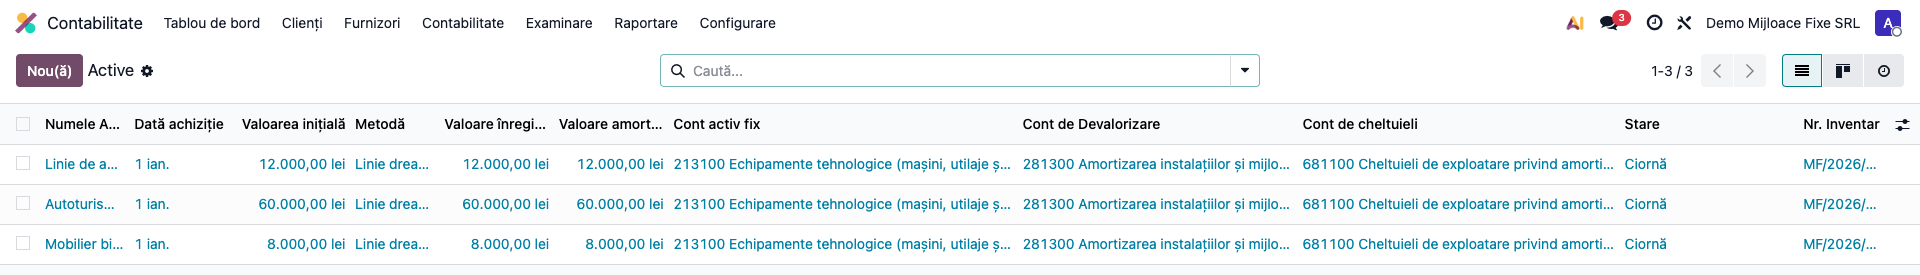
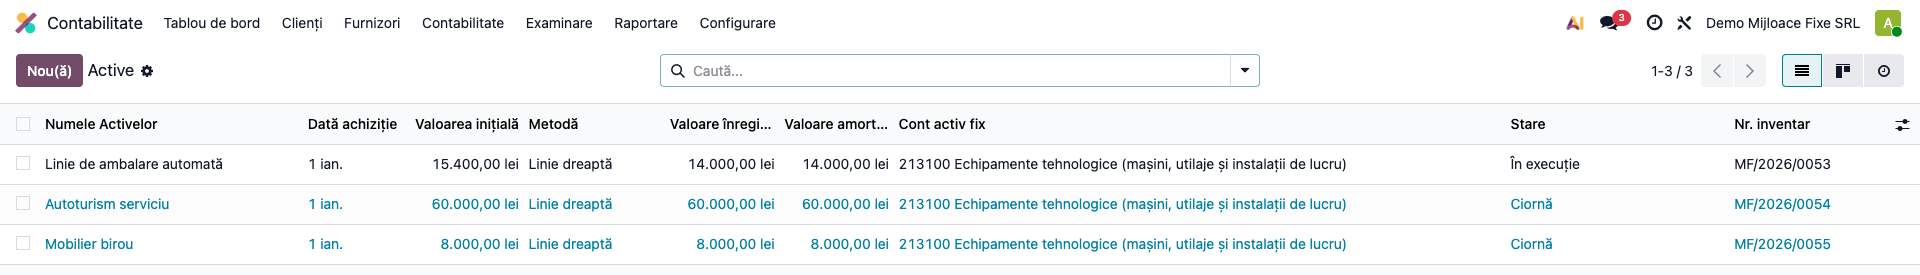
Re-ingestie l10n_ro_fixed_assets: fix bază amortizare fiscală (19.0.1.2.2)
Modulul a primit un fix suplimentar după rezolvarea tichetului 9452:
_compute_l10n_ro_fiscal_depreciation folosea original_value ca bază, contaminată
de surplusul (nedeductibil fiscal) al unei reevaluări. Corectat prin câmpul nou
l10n_ro_fiscal_original_value, înghețat la creare.

- index.md actualizat la 19.0.1.2.2
- FISA_CONSULTANT.md resincronizată (inclusiv corecție de etichetă de versiune
  în secțiunea 12)
- Capturi resincronizate
- Index de căutare reconstruit (488 module)

diff --git a/l10n_ro_fixed_assets/FISA_CONSULTANT.md b/l10n_ro_fixed_assets/FISA_CONSULTANT.md
@@ -17,7 +17,8 @@ pentru pregătirea capitolului Cap 7.1 din manualul utilizator.
 
 ## 2. Bază legală și context
 
-OMFP 1802/2014; HG 2139/2004 (Nomenclatorul MF); Codul Fiscal (amortizare fiscală)
+OMFP 1802/2014; HG 2139/2004 (Catalogul privind clasificarea și duratele normale de funcționare a
+mijloacelor fixe); Codul Fiscal art. 28 (amortizare fiscală)
 
 ## 3. Utilizatori și roluri
 
@@ -30,7 +31,11 @@ Roluri recomandate pentru testare:
 
 ## 4. Conturi și date implicate
 
-21x (active), 281x/282x (amortizare), 6811 (cheltuieli amortizare), 6583 (casare)
+21x (active), 281x (amortizare cumulată), 6811 (cheltuieli amortizare), 105 (rezerve din
+reevaluare), 1175 (rezultat reportat — transfer rezervă la casare), 6813 (depreciere ce depășește
+soldul 105), 6583 (valoarea neamortizată la casare / „Cont Pierderi"), 7583 (venit din vânzarea
+activelor / „Cont Venituri"), 4111/461 (creanța clientului la vânzare, după contul configurat pe
+partener), 4427 (TVA colectată la vânzare)
 
 Date minime pentru demo:
 - companie românească cu localizarea contabilă instalată
@@ -40,19 +45,30 @@ Date minime pentru demo:
 
 ## 5. Configurare inițială
 
-1. Instalați modulul `l10n_ro_fixed_assets` pe baza demo.
-2. Verificați dependențele cerute de manifest și meniurile nou apărute.
-3. Configurați conturile, jurnalele, produsele, partenerii sau parametrii specifici fluxului.
-4. Pregătiți un set minim de documente postate pentru perioada de test.
-5. Verificați că utilizatorul de test are grupurile de acces necesare.
+1. Instalați modulul `l10n_ro_fixed_assets` (necesită `account_asset`, `l10n_ro_saft`, `l10n_ro`).
+2. Verificați jurnalul de tip **Active fixe** și conturile 21x/281x/6811/105/6813/1175/6583 pe planul
+   de conturi RO.
+3. **Setări → Contabilitate**, secțiunea Active: setați **6583** pe **„Cont Pierderi"**
+   (`loss_account_id`) și **7583** pe **„Cont Venituri"** (`gain_account_id`) — fără ele, motorul
+   nu are unde posta rezultatul net la casare/vânzare.
+4. **Setări → Contabilitate**: activați **„Contabilitate Storno"** (`account_storno`) — fără el,
+   nota de vânzare a unui mijloc fix produce un rulaj în oglindă (debit) pe contul de venit (7583),
+   deformând cifra de afaceri din operațiuni de capital.
+5. Verificați secvența **„Număr Inventar Mijloc Fix RO"** (`l10n_ro.asset_inventory_number`, format
+   `MF/AAAA/NNNN`).
+6. Pe activele de test, setați **Metodă = Linie dreaptă** și **Perioadă = 1 lună** — fix-ul „amortizare
+   din luna următoare PIF" (secțiunea 12) se aplică doar când perioada este lunară.
+7. Completați pe fiecare activ de test câmpurile **Nr. Inventar** și **Data PIF** (obligatorii pentru
+   SAF-T D406).
 
 ## 6. Flux de utilizare
 
 ### Pasul 1 — Lista mijloacelor fixe
 
-Accesați **Contabilitate → Active → Active**. Lista afișează mijloacele fixe cu coloanele RO:
-valoare inițială, metodă, conturile (213 activ / 281 amortizare / 681 cheltuială), starea și
-**numărul de inventar** (`MF/AAAA/NNNN`).
+Accesați **Contabilitate → Active și pasive → Active**. Lista afișează mijloacele fixe cu coloanele RO:
+valoare inițială, metodă, contul de activ (213), starea și **numărul de inventar** (`MF/AAAA/NNNN`).
+Conturile de amortizare (281) și cheltuială (681) sunt disponibile ca **coloane opționale**
+(selectorul din dreapta antetului listei).
 
 ![Lista mijloacelor fixe cu coloanele RO (nr. inventar, conturi, stare)](screenshots/01_lista_active.png)
 
@@ -68,21 +84,37 @@ activul și generează planul de amortizare.
 ### Pasul 3 — Datele specifice RO (tab „Informații RO")
 
 Tab-ul **„Informații RO"** grupează câmpurile cerute de localizare: **Data PIF** (punere în
-funcțiune), **Locație**, **DNU** (durata normală din Catalogul HG 2139/2004), **Responsabil
-custodie**, metoda de **amortizare fiscală** (Cod Fiscal art. 28), plus secțiunile **Casare** și
-**Reevaluări** (rezerva contului 105).
+funcțiune), **DNU** (durata normală din Catalogul HG 2139/2004), **Cod de clasificare**,
+**Responsabil custodie**, **Locație**, metoda de **amortizare fiscală** (Cod Fiscal art. 28) și
+lista **Reevaluări** (cu rezerva contului 105 vizibilă și în smart button-ul din antet). Secțiunea
+**Casare** rămâne goală până la cedarea efectivă a activului — câmpurile ei devin vizibile abia în
+starea „Cedat".
 
 ![Tab „Informații RO" — identificare/localizare, amortizare fiscală, casare, reevaluări](screenshots/03_informatii_ro.png)
 
 ### Note de monografie și raportare
 
 - **Amortizare lunară:** `Dr 6811 (cheltuieli amortizare) = Cr 281x (amortizare cumulată)`.
-- **Reevaluare (creștere):** `Dr 21x (activ) = Cr 105 (rezerve din reevaluare)`; la casare/cedare,
-  rezerva 105 se transferă la rezultatul reportat.
-- **Casare:** scoaterea din evidență `Dr 281x (amortizare) + Dr 658x/471 (val. neamortizată) = Cr 21x (activ)`,
-  cu **Decizie de casare** (raport PDF).
+- **Reevaluare (creștere):** `Dr 21x (activ) = Cr 105 (rezerve din reevaluare)`.
+- **Depreciere peste soldul 105:** `Dr 6813 (cheltuieli deprecieri) = Cr 21x (activ)`, pentru partea
+  care depășește rezerva disponibilă din 105.
+- **Casare (fără vânzare — activ complet sau parțial amortizat, fără încasare):** scoaterea din
+  evidență `Dr 281x (amortizare cumulată) + Dr 6583 (valoare neamortizată) = Cr 21x (activ, valoare
+  brută)`, cu **Decizie de casare** (raport PDF) ca document justificativ. Aici toată valoarea
+  neamortizată ajunge direct în 6583 (`loss_account_id`).
+- **Vânzare mijloc fix:** factura de vânzare generează separat `Dr 461/4111 (creanța clientului,
+  după contul configurat pe partener) = Cr 7583 (venit din vânzare active) + Cr 4427 (TVA
+  colectată)`. Nota de cedare a activului reia linia de venit din factură și adaugă `Dr 281x
+  (amortizare cumulată) = Cr 21x (activ, valoare brută)`; **diferența** dintre valoarea neamortizată
+  și prețul de vânzare (câștig sau pierdere) se închide în contul configurat pe companie — **7583**
+  („Cont Venituri", `gain_account_id`) dacă vânzarea aduce câștig, **6583** („Cont Pierderi",
+  `loss_account_id`) dacă aduce pierdere. Fără **Contabilitate Storno** activată, această notă
+  produce un rulaj suplimentar (debit) pe 7583, pe lângă cel din factură.
+- **La casare/cedare, dacă activul are rezervă de reevaluare (105) nesoldată:** transfer automat
+  `Dr 105 (rezerve din reevaluare) = Cr 1175 (rezultat reportat)` (OMFP 1802/2014 pct. 103).
 - **Amortizare fiscală vs. contabilă** (Cod Fiscal art. 28): se urmărește separat de cea contabilă,
-  pentru calculul impozitului pe profit.
+  pentru calculul impozitului pe profit. Baza de calcul este **valoarea fiscală de intrare**, nu
+  valoarea reevaluată — un surplus din reevaluare nu se amortizează fiscal.
 
 ## 7. Legături cu alte module / declarații
 
@@ -109,10 +141,11 @@ Ce rămâne manual: validarea numărului de inventar, codului nomenclator și DN
 
 | Mesaj / simptom | Cauză probabilă | Remediere |
 |-----------------|-----------------|-----------|
-| Meniul nu este vizibil | Utilizatorul nu are grupurile necesare | Verificați drepturile de acces și reîncărcați aplicațiile |
-| Nu se generează linii | Lipsesc documente postate în perioada aleasă | Creați și postați datele de test necesare |
-| Cont lipsă sau jurnal lipsă | Configurarea contabilă este incompletă | Completați conturile și jurnalele în setările modulului |
-| Perioada este blocată | Data documentului este într-o perioadă închisă | Folosiți o perioadă deschisă sau ajustați lock date-ul în demo |
+| „Commissioning date (PIF) cannot be before the acquisition date." | Data PIF a fost setată înaintea datei de achiziție a activului. | Corectați data PIF — trebuie să fie egală sau ulterioară achiziției. |
+| „The journal entry … is linked to asset … but has no depreciation beginning date. The 'Asset' field is reserved for entries generated automatically…" *(mesaj momentan netradus în ro.po)* | O notă contabilă (ex. de reevaluare) a fost legată manual la câmpul tehnic „Asset", fără ca acesta să provină din motorul de amortizare. | Nu legați manual câmpul „Asset" pe notele contabile — el este completat automat de planul de amortizare/reevaluare. |
+| „Account 6813 not found. Please fill in the 'Account 6813' field on the revaluation." | Deprecierea depășește soldul disponibil în 105, iar contul 6813 nu e configurat pe planul de conturi sau pe reevaluare. | Completați câmpul „Cont 6813" pe reevaluare sau adăugați contul 6813 pe planul de conturi RO. |
+| „The revaluation has already been confirmed." / „…has a posted accounting entry. Please reset the journal entry first." | Se încearcă re-confirmarea unei reevaluări deja postate. | Resetați mai întâi nota contabilă asociată (draft), apoi reluați reevaluarea. |
+| „Missing inventory number on fixed assets" / „Missing commissioning date on fixed assets" (avertisment SAF-T) | Activul nu are completat Nr. Inventar sau Data PIF, câmpuri obligatorii pentru declarația SAF-T D406. | Completați câmpurile lipsă direct din acțiunea „Fill in…" oferită de avertisment. |
 
 ## 10. Capturi de ecran
 
@@ -135,3 +168,29 @@ Regenerare:
 
 În manualul final, păstrați explicația orientată pe activitatea utilizatorului:
 ce problemă rezolvă modulul, când se rulează, ce date trebuie pregătite și cum se verifică rezultatul.
+
+> **Notă terminologică (nu ține de acest modul):** traducerea RO livrată de Odoo Enterprise pentru
+> `account_asset` folosește „Devalorizare" în loc de „Amortizare" (ex. tabul „Panou Devalorizare",
+> grupul „Metoda de Devalorizare"). Este o traducere din pachetul Enterprise, nu din
+> `l10n_ro_fixed_assets` — în manual, înlocuiți mental „devalorizare" cu „amortizare" la explicarea
+> capturilor.
+
+## 12. Corecții relevante pentru consultant
+
+Fixuri livrate pe acest modul, relevante pentru discuția cu clientul (ce s-a schimbat, de ce, de la ce versiune):
+
+| Versiune | Ce era greșit (simptom pentru client) | Ce s-a corectat |
+|---|---|---|
+| **19.0.1.1.0** (versiune inițială) | Pe planul de conturi RO, contul de amortizare cumulată 281x este clasificat drept cont de cheltuială — fără o corecție explicită, planul de amortizare nu se genera deloc (linia Dr 6811 și cea Cr 281x se anulau reciproc). | Latura de amortizare cumulată este exclusă corect din calculul liniei de cheltuială, astfel încât planul de amortizare se generează cu valorile corecte (`Dr 6811 = Cr 281x`). |
+| **19.0.1.2.0** (2026-09-14) | Amortizarea contabilă/fiscală începea chiar din luna punerii în funcțiune (PIF), proporțional cu zilele rămase din acea lună — nu din luna următoare, cum cere legea. | `prorata_date` pornește acum din prima zi a lunii **următoare** PIF (art. 28 alin. (12) lit. a) Legea 227/2015; OMFP 1802/2014 pct. 238). Se aplică companiilor RO cu amortizare lunară. |
+| **19.0.1.2.0** (2026-09-14) | La vânzarea/casarea unui mijloc fix parțial amortizat în cursul lunii, programul amortiza proporțional cu zilele scurse până la data vânzării — deși amortizarea e strict lunară, iar luna vânzării nu ar trebui amortizată deloc. | Ultima lună amortizată la casare este acum luna anterioară vânzării, indiferent de ziua exactă din lună. Monografia de casare/vânzare (secțiunea 6) era deja corectă structural — discrepanța era doar efectul sumei greșite de amortizare. |
+| **19.0.1.2.1** (2026-09-14) | Amortizarea fiscală afișată pe activ (câmpurile „Amortizare fiscală cumulată" / „an curent") putea arăta cumulatul **mai mic** decât amortizarea anului curent pentru un activ pus în funcțiune în anul curent — incoerență imposibilă contabil, cauzată de o formulă care numără luna PIF diferit în cele două cifre. | Ambele cifre folosesc acum aceeași convenție „luna următoare PIF", simetric cu fix-ul din 19.0.1.2.0; pentru primul an de amortizare, cumulatul și amortizarea anului curent coincid. |
+| **19.0.1.2.2** (2026-09-14) | Amortizarea fiscală se calcula pe **valoarea curentă** a activului (`original_value`), care crește la o reevaluare — un surplus din reevaluare (nedeductibil fiscal, Cod Fiscal art. 28) ajungea astfel inclus greșit în baza de amortizare fiscală, umflând cifra afișată. | Baza de calcul este acum câmpul nou **„Fiscal Original Value"**, înghețat la valoarea de intrare din momentul creării activului — neafectat de reevaluări ulterioare. |
+| **19.0.1.2.0** (2026-09-14) | Legarea manuală a unei note contabile (ex. o notă de reevaluare) la câmpul tehnic „Asset" al unei note contabile, fără completarea datei de început a amortizării, bloca ulterior orice calcul de valoare reziduală a activului, inclusiv din wizard-ul „Modifică". Incident reprodus pe o instanță client. | Legarea manuală incompletă este acum respinsă explicit la salvare, cu un mesaj clar (deocamdată doar în engleză) — câmpul „Asset" rămâne rezervat notelor generate automat de motorul de amortizare. |
+| **19.0.1.1.1** (2026-07-17) | Butonul/acțiunea „Reevaluează Mijlocul Fix" din lista de active (meniu contextual) arunca o eroare la orice utilizare, blocând reevaluarea din acel punct de intrare. | Acțiunea apelează corect wizard-ul de reevaluare; funcționează identic cu butonul „Reevaluare" din formularul activului. |
+
+> Notă: fix-urile de amortizare (din luna următoare PIF, fără prorata la vânzare) și blocarea legării
+> manuale sunt acoperite direct de teste automate (`tests/test_fixed_assets_ro.py`), reproduse cu date
+> fictive RO. Fix-ul acțiunii „Reevaluează" este verificat doar indirect (testul acoperă metoda
+> apelată, nu punctul exact de eroare din acțiunea de server). Istoricul complet, în engleză și cu
+> detalii tehnice, e în `readme/HISTORY.md`.

diff --git a/l10n_ro_fixed_assets/index.md b/l10n_ro_fixed_assets/index.md
@@ -1,10 +1,10 @@
 # Romania - Mijloace fixe complete (FR-19) (localizat la `l10n_ro_fixed_assets/index.md`)
 
 - **Nume Tehnic:** `l10n_ro_fixed_assets`
-- **Versiune:** `19.0.1.1.1`
+- **Versiune:** `19.0.1.2.2`
 - **Cale:** https://github.com/terrabit-solutions/l10n_ro_ent/tree/19.0/l10n_ro_fixed_assets
 - **Cale Locală:** `odoo-addons/l10n_ro_ent/l10n_ro_fixed_assets`
-- **Ultima Ingestie:** 2026-08-20
+- **Ultima Ingestie:** 2026-09-14
 - **Fișă Consultant:** [FISA_CONSULTANT.md](FISA_CONSULTANT.md)
 
 #### 1. Sumar
@@ -14,11 +14,14 @@ Extinde modulul `account_asset` (Enterprise) cu câmpurile și funcționalităț
 #### 2. Funcționalități Cheie
 
 - **Nr. Inventar** (`l10n_ro_inventory_number`): generabil automat din secvența `MF/AAAA/NNNN`; suprascrie `<AssetID>` în SAF-T D406 cu identificatorul din registrul imobilizărilor fizic.
-- **Data PIF** (`l10n_ro_date_in_service`): data punerii în funcțiune, distinctă de data achiziției; override `<StartUpDate>` în SAF-T; amortizarea începe la data PIF.
+- **Data PIF** (`l10n_ro_date_in_service`): data punerii în funcțiune, distinctă de data achiziției; override `<StartUpDate>` în SAF-T; amortizarea contabilă și fiscală pornesc din **prima zi a lunii următoare** PIF, nu din PIF însuși (fix de conformitate cu art. 28 alin. (12) lit. a) Legea 227/2015 și OMFP 1802/2014 pct. 238 — vezi secțiunea 12 din fișa consultant).
 - **Responsabil Custodie** și **Locație**: câmpuri pentru registrul imobilizărilor; **DNU Catalog HG 2139/2004** informativ.
-- **Amortizare fiscală vs. contabilă**: urmărire separată conform Cod Fiscal art. 28, calcul automat fără note contabile, exclusiv pentru reconcilierea Declarației 101.
+- **Amortizare fiscală vs. contabilă**: urmărire separată conform Cod Fiscal art. 28, calcul automat fără note contabile, exclusiv pentru reconcilierea Declarației 101; cumulatul și amortizarea anului curent folosesc acum aceeași convenție de start (luna următoare PIF), corectând o incoerență în care cumulatul putea ieși mai mic decât amortizarea anului curent pentru un activ pus în funcțiune în anul curent. Baza de amortizare fiscală este acum câmpul nou `l10n_ro_fiscal_original_value`, înghețat la valoarea de intrare din momentul creării activului — un surplus dintr-o reevaluare ulterioară (care majorează `original_value`, dar nu e deductibil fiscal conform Cod Fiscal art. 28) nu mai umflă cifra de amortizare fiscală afișată.
+- **Vânzare/casare fără prorata pe luna cedării**: la vânzarea sau casarea unui activ în cursul lunii, luna cedării nu se mai amortizează proporțional cu zilele scurse — ultima lună amortizată este cea anterioară vânzării, simetric cu regula de start.
+- **Blocare legare manuală a câmpului tehnic „Asset"**: o notă contabilă (ex. de reevaluare) nu mai poate fi legată manual la activ fără data de început a amortizării completată; anterior acest lucru bloca ulterior orice calcul de valoare reziduală (inclusiv din wizard-ul „Modifică") cu `TypeError`.
 - **Reevaluare la valoare justă**: model dedicat `l10n.ro.asset.revaluation` cu wizard; generează automat nota Dr 21x = Cr 105 (surplus) sau Dr 105/6813 = Cr 21x (depreciere); recalculează planul de amortizare după reevaluare.
 - **Casare cu monografie RO corectă**: override `set_to_close()` generează Dr 281x = Cr 21x și Dr 6583 = Cr 21x (valoare reziduală); transfer automat 105 → 1175 dacă există rezervă din reevaluare.
+- **Vânzare mijloc fix**: diferența dintre valoarea neamortizată și prețul de vânzare se închide pe 7583 (`gain_account_id`, câștig) sau 6583 (`loss_account_id`, pierdere); necesită **Contare Storno** (`account_storno`) activat pe compania RO pentru a evita un rulaj suplimentar pe contul de venit.
 - **Decizie de Casare PDF**: raport QWeb cu comisie, motiv, valori inventar/amortizare/reziduală.
 - **Registrul Imobilizărilor PDF**: raport tabelar cu toate activele.
 - **Pre-validator SAF-T D406**: raportează erori la active fără număr de inventar sau fără dată PIF.
@@ -33,10 +36,10 @@ Extinde modulul `account_asset` (Enterprise) cu câmpurile și funcționalităț
 
 **Modele**
 
-- `account.asset`: extins cu câmpurile RO (nr. inventar, dată PIF, custodie, locație, DNU, amortizare fiscală) și override-uri SAF-T și `set_to_close()`.
+- `account.asset`: extins cu câmpurile RO (nr. inventar, dată PIF, custodie, locație, DNU, amortizare fiscală, `l10n_ro_fiscal_original_value` înghețat la creare) și override-uri SAF-T, `set_to_close()`, `prorata_date` (start amortizare din luna următoare PIF) și calculul amortizării fiscale cumulate/an curent pe baza valorii fiscale de intrare (nu a valorii curente, care poate include un surplus de reevaluare).
 - `l10n.ro.asset.revaluation`: modelul de reevaluare a mijloacelor fixe (cont 105), cu monografie completă și recalcularea planului de amortizare.
 - `account.general.ledger.report.handler` (extindere): completează valorile SAF-T D406 (`asset_inventory_number`, `l10n_ro_date_in_service`, custodie, locație) și pre-validează activele fără număr de inventar sau dată PIF.
-- `account.move` (extindere): `_get_asset_depreciation_line()` exclude contul de amortizare cumulată (281x) din latura de cheltuială pentru companiile RO, ca nota de amortizare Dr 6811 / Cr 281x să nu se anuleze reciproc.
+- `account.move` (extindere): `_get_asset_depreciation_line()` exclude contul de amortizare cumulată (281x) din latura de cheltuială pentru companiile RO, ca nota de amortizare Dr 6811 / Cr 281x să nu se anuleze reciproc; adaugă o constrângere care respinge legarea manuală a câmpului tehnic „Asset" fără `asset_depreciation_beginning_date` completat.
 
 **Vizualizări**
 

diff --git a/log.md b/log.md
@@ -4,6 +4,42 @@ This is an append-only log of all operations performed on the wiki.
 
 ---
 
+## [2026-09-14] Re-ingestie: Fix bază amortizare fiscală (post-audit fișă) — `l10n_ro_fixed_assets`
+
+- **Acțiune:** Actualizată pagina modulului `l10n_ro_fixed_assets` la versiunea `19.0.1.2.2`. În timpul
+  auditării fișei consultant (3 ture cu agentul `verificator-fisa`), a fost descoperit un bug
+  suplimentar: `_compute_l10n_ro_fiscal_depreciation` folosea `original_value` ca bază de calcul, iar
+  o reevaluare majorează acest câmp cu un surplus nedeductibil fiscal (Cod Fiscal art. 28) — cifrele
+  de amortizare fiscală ieșeau umflate. Corectat prin câmpul nou `l10n_ro_fiscal_original_value`,
+  înghețat la creare (`create()` override).
+- **Sursă:** `readme/HISTORY.md` (intrarea 19.0.1.2.2) + `models/account_asset.py`.
+- **Dependențe/Conexiuni:** neschimbate.
+- **Fișe consultant:** `FISA_CONSULTANT.md` resincronizată — inclusiv o corecție de etichetă de
+  versiune în tabelul din secțiunea 12 (rândul despre acest fix era etichetat greșit „19.0.1.2.1" în
+  loc de „19.0.1.2.2"), aplicată atât la sursă (`readme/`) cât și în copia din wiki.
+- **Fișiere actualizate:** `l10n_ro_fixed_assets/index.md`, `l10n_ro_fixed_assets/FISA_CONSULTANT.md`,
+  acest fișier.
+
+## [2026-09-14] Re-ingestie: Fix-uri amortizare mijloace fixe RO (tichet 9452)
+
+- **Acțiune:** Actualizată pagina modulului `l10n_ro_fixed_assets` (suita `l10n_ro_ent`) la versiunea
+  `19.0.1.2.1`, după rezolvarea tichetului Terrabit #9452: amortizarea contabilă (companii RO,
+  perioadă lunară) pornea greșit din luna PIF în loc de luna următoare (art. 28 alin. (12) lit. a)
+  L227/2015; OMFP 1802/2014 pct. 238) și mai amortiza pro-rata pe zile luna vânzării la casare. Un
+  al doilea bug, descoperit în timpul auditării fișei consultant, făcea ca amortizarea fiscală
+  cumulată afișată pe activ să iasă mai mică decât cea a anului curent pentru un activ pus în
+  funcțiune în anul curent (`_compute_l10n_ro_fiscal_depreciation`) — corectat simetric.
+- **Sursă:** `readme/HISTORY.md` (istoricul de versiuni) + `readme/FISA_CONSULTANT.md` (secțiunea
+  nouă 12 „Corecții relevante pentru consultant", produsă și auditată în 3 ture cu agentul
+  `verificator-fisa`).
+- **Dependențe/Conexiuni:** neschimbate (`account_asset`, `l10n_ro_saft`, `l10n_ro`).
+- **Fișe consultant:** `FISA_CONSULTANT.md` reactualizată (monografie casare/vânzare separată
+  corect, pași de configurare `loss_account_id`/`gain_account_id`/`account_storno`, mesaje de eroare
+  reale) + 3 capturi regenerate (custode cu nume RO plauzibil, activ confirmat cu reevaluare
+  postată, coloane netrunchiate în listă).
+- **Fișiere actualizate:** `l10n_ro_fixed_assets/index.md`, `l10n_ro_fixed_assets/FISA_CONSULTANT.md`
+  + `screenshots/` (3 fișiere), acest fișier.
+
 ## [2026-09-14] Re-ingestie: Fișă consultant nouă pentru limita de credit la checkout website
 
 - **Acțiune:** Actualizat pagina modulului `terrabit_partner_credit_limit_website` (suita `bitshop`)
